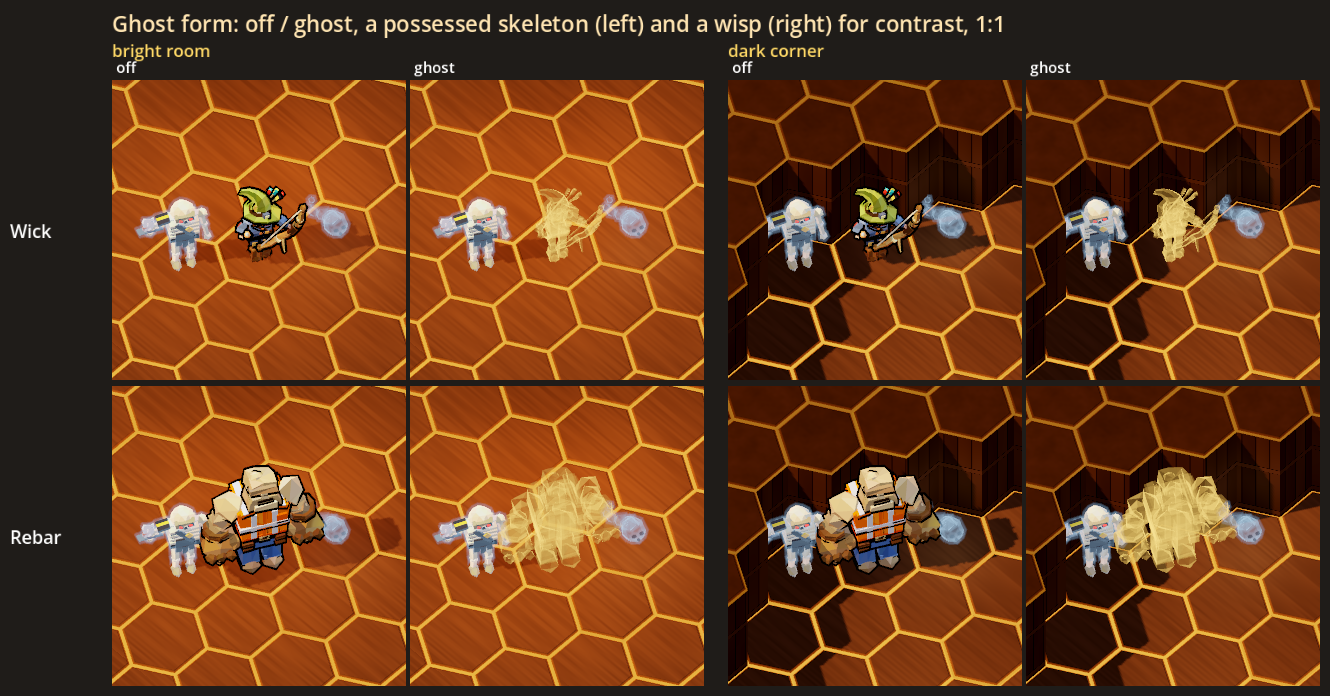
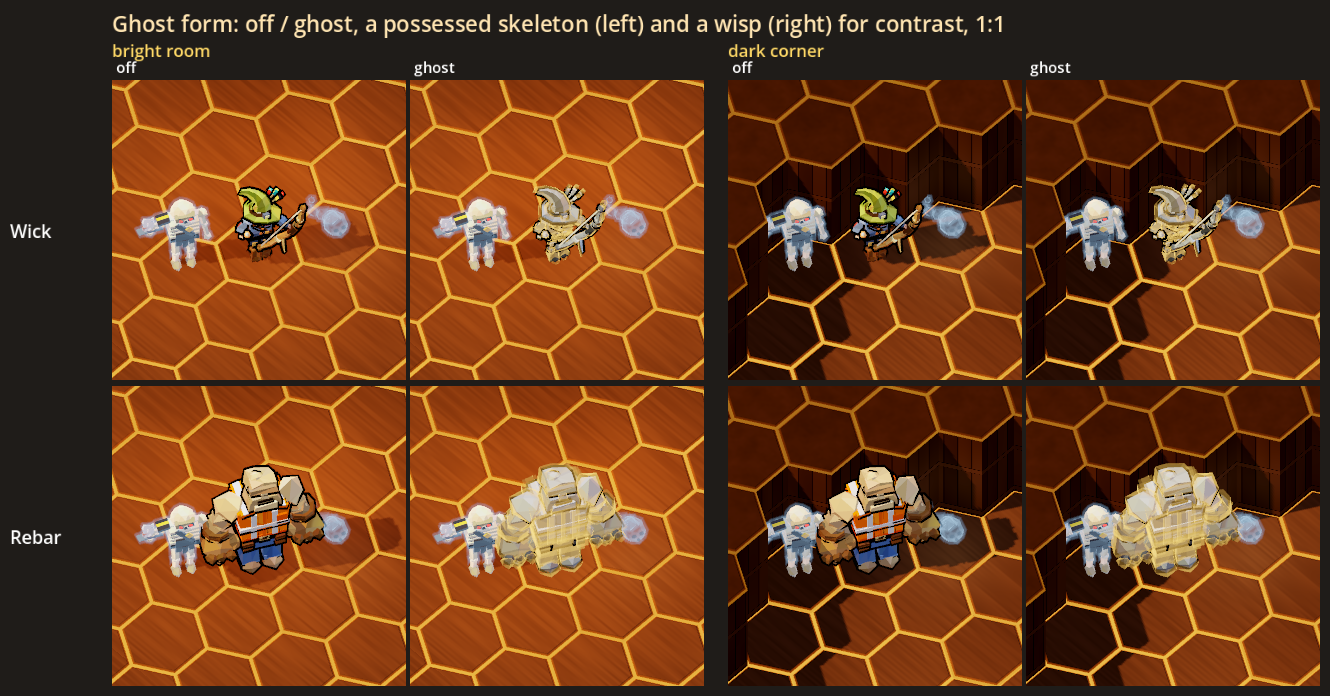
Ghost form: the hero's pale corpse inside its warm ghost (the user: "Maybe have the pale corpse inside instead?")

diff --git a/docs/design/haunt-look.md b/docs/design/haunt-look.md
@@ -34,7 +34,8 @@ armour, a skeleton), and ghost form is a whole-body transform you cast on yourse
 - **The player's ghost form is just the ghost shape** (the user: "lets actually remove the main body and make it just
   the ghost shape"): every part of the hero in the same vapour as the possessed hosts' ghost body, warm (not the enemies'
   cold colour), no body, no ink, no shadow (`GhostForm`, one treatment, "ghost"; glass and spirit are gone). The gym's
-  Ghost form row is off / ghost.
+  Ghost form row is off / ghost. Then: "Maybe have the pale corpse inside instead?": the hero's own body drained of colour
+  and paled (its ink kept) inside the warm ghost, 1.2 times larger round each part, like the possessed hosts.
 - **The niche is dropped for now.** The single niche "doesn't read" (it looked like a free-standing box). A wall of stacked
   burial slots was tried next and also failed ("No, that isn't working"): at the game camera it still read as a chest in
   the middle of the room. The user: "Drop the niche for now." The dormant skeleton is slumped only, and the risen one stands
